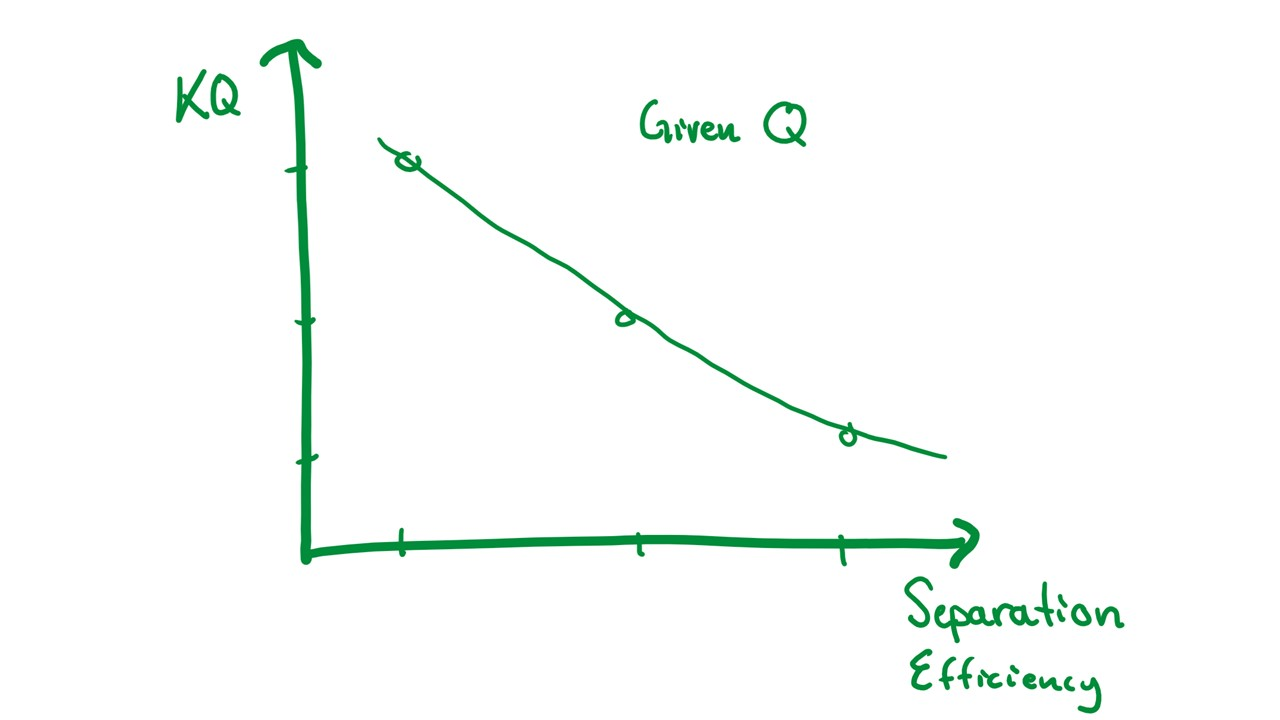
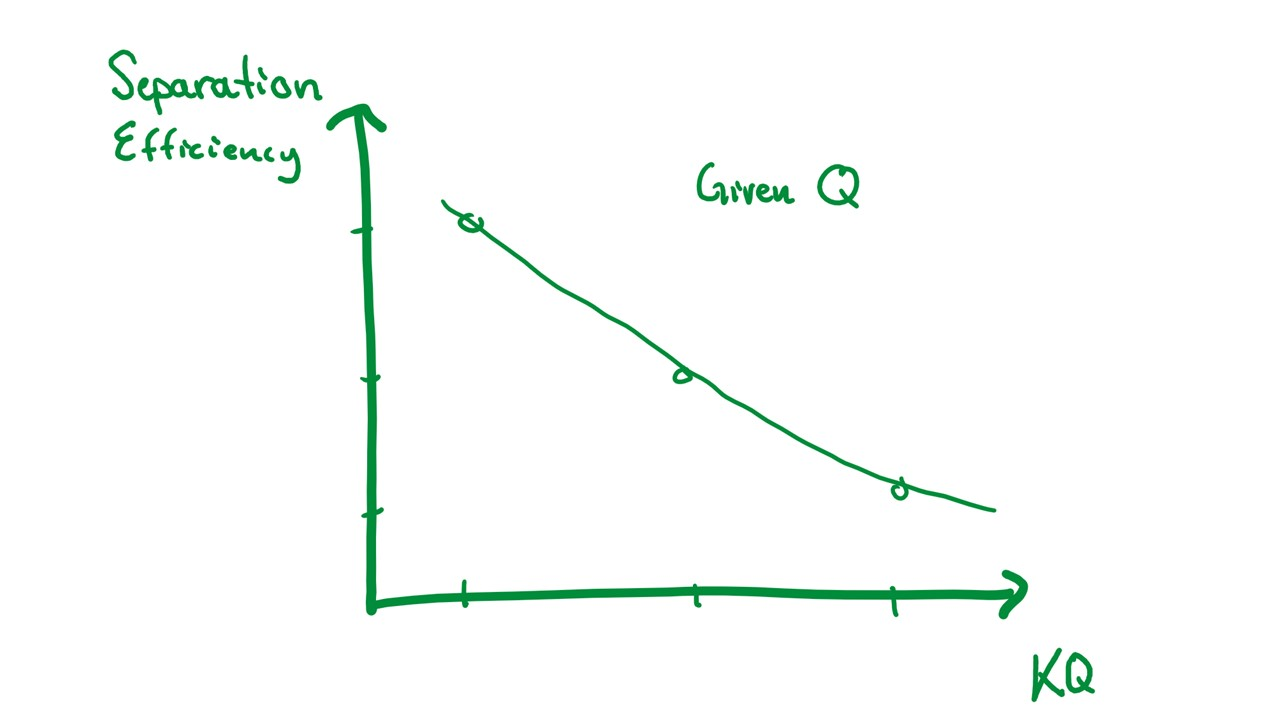
Updating

Changed region(s): [[0.0625, 0.0306, 0.875, 1.0], [0.5, 0.1222, 0.6875, 0.3056]]

diff --git a/src/app/find-q/find-q.component.html b/src/app/find-q/find-q.component.html
@@ -8,7 +8,7 @@
         <mat-card-header class="welcomeheader" >
             <mat-card-title>Enter your desired KQ</mat-card-title>
             <mat-card-subtitle class="infotext">The spintest you ran will be used to find 4 different flowrates you can run through your separator 
-                <br> that corresponds to the given separation efficencies yielded by spinning samples in a centrifuge.</mat-card-subtitle>
+                <br> that corresponds to the given {{this._results.separation_result}} found by spinning samples in a centrifuge.</mat-card-subtitle>
         </mat-card-header>
 
         <img mat-card-image src="assets/images/fluid-image.jpg" alt="Photo of spintest">
@@ -19,7 +19,7 @@
                 <form [formGroup]="your_KQ" (submit)="submit_your_KQ()">  
                     
                     <mat-form-field class="form-field" appearance="fill">
-                        <mat-label> Capacity KQ</mat-label>
+                        <mat-label> Size KQ</mat-label>
                         <input type="number" matInput formControlName="KQ">
                     </mat-form-field>
 

diff --git a/src/app/navigator-page/navigator-page.component.html b/src/app/navigator-page/navigator-page.component.html
@@ -71,8 +71,8 @@
             <mat-card class="input-card" style="text-align:center">
                 <mat-card-header class="welcomeheader">
                     <div mat-card-avatar class="example-header-image"></div>
-                    <mat-card-title >Find your capacity</mat-card-title>
-                    <mat-card-subtitle class="equalspace"> Volumetric flow Q is known, and required separator capacity for different efficienceies are plotted</mat-card-subtitle>
+                    <mat-card-title >Find your size</mat-card-title>
+                    <mat-card-subtitle class="equalspace"> Volumetric flow Q is known, and required separator size for different efficienceies are plotted</mat-card-subtitle>
                 </mat-card-header>
         
                 <img mat-card-image src="assets/images/Slide2.JPG" alt="Photo of spintest">

diff --git a/src/app/find-capacity/find-capacity.component.ts b/src/app/find-capacity/find-capacity.component.ts
@@ -33,7 +33,7 @@ export class FindCapacityComponent implements OnInit {
   
   //Initial values so I know if something didn't update
   ChartData: ChartDataSets[]= [
-    {data: [1,2,3], label: 'Initial_Data50' },
+    {data: [1,2,3], label: 'Initial_Data' },
    ];
   ChartLabels: Label[]= ["First","Second","Third"];
   
@@ -47,7 +47,7 @@ export class FindCapacityComponent implements OnInit {
   
   ChartOptions={
     title:{
-      text:"Capacity needed for different efficiencies",
+      text:"Separator size req. for different"+`${this._results.separation_result}`,
       display: true,
       fontSize: 30,
     },

diff --git a/src/app/find-q/find-q.component.ts b/src/app/find-q/find-q.component.ts
@@ -24,7 +24,7 @@ export class FindQComponent implements OnInit {
 
 
   constructor( 
-    private _results: ResultsService,
+    public _results: ResultsService,
     private _PassToPythonServiceHolder: PassToPythonService,
     private formBuilder: FormBuilder,
 
@@ -85,15 +85,13 @@ ChartOptions={
         
       },
       
-      ticks: {
-        stepSize:this.stepsize_y,
-      }
+    
     }],
     xAxes:[{
       type:'linear',
       scaleLabel: {
         display: true, 
-        labelString:'Residuals [%]',
+        labelString:this._results.separation_result,
         fontSize:20,
       },   
     }]

diff --git a/src/app/input-form/input-form.component.html b/src/app/input-form/input-form.component.html
@@ -102,7 +102,7 @@
                             
                             <div class="input-table-column">
                                 <mat-form-field class="form-field" appearance="fill">
-                                    <mat-label> Residual solids [%] 1 </mat-label>
+                                    <mat-label> {{this.separation_result}} 1 </mat-label>
                                         <input type="number" matInput formControlName="residualSolids1" required>
                                 </mat-form-field>     
 

diff --git a/src/app/common/services/pass-to-python.service.ts b/src/app/common/services/pass-to-python.service.ts
@@ -15,7 +15,8 @@ export class PassToPythonService {
 
 
   sendEquipmentProperties(data): Observable<any>{
-  
+  //The address below needs to change once it is all inside docker, since the address should
+  //point to the docker network's port where backend sits.
    
     return this.http.post("http://127.0.0.1:5000/send_equipment_properties",data);
     

diff --git a/src/app/input-form/input-form.component.ts b/src/app/input-form/input-form.component.ts
@@ -42,7 +42,7 @@ export class InputFormComponent implements OnInit {
   constructor(
     private _PassToPythonServiceHolder: PassToPythonService,
     private formBuilder: FormBuilder,
-    private _results: ResultsService,
+    public _results: ResultsService,
 
 
     ) {  }
